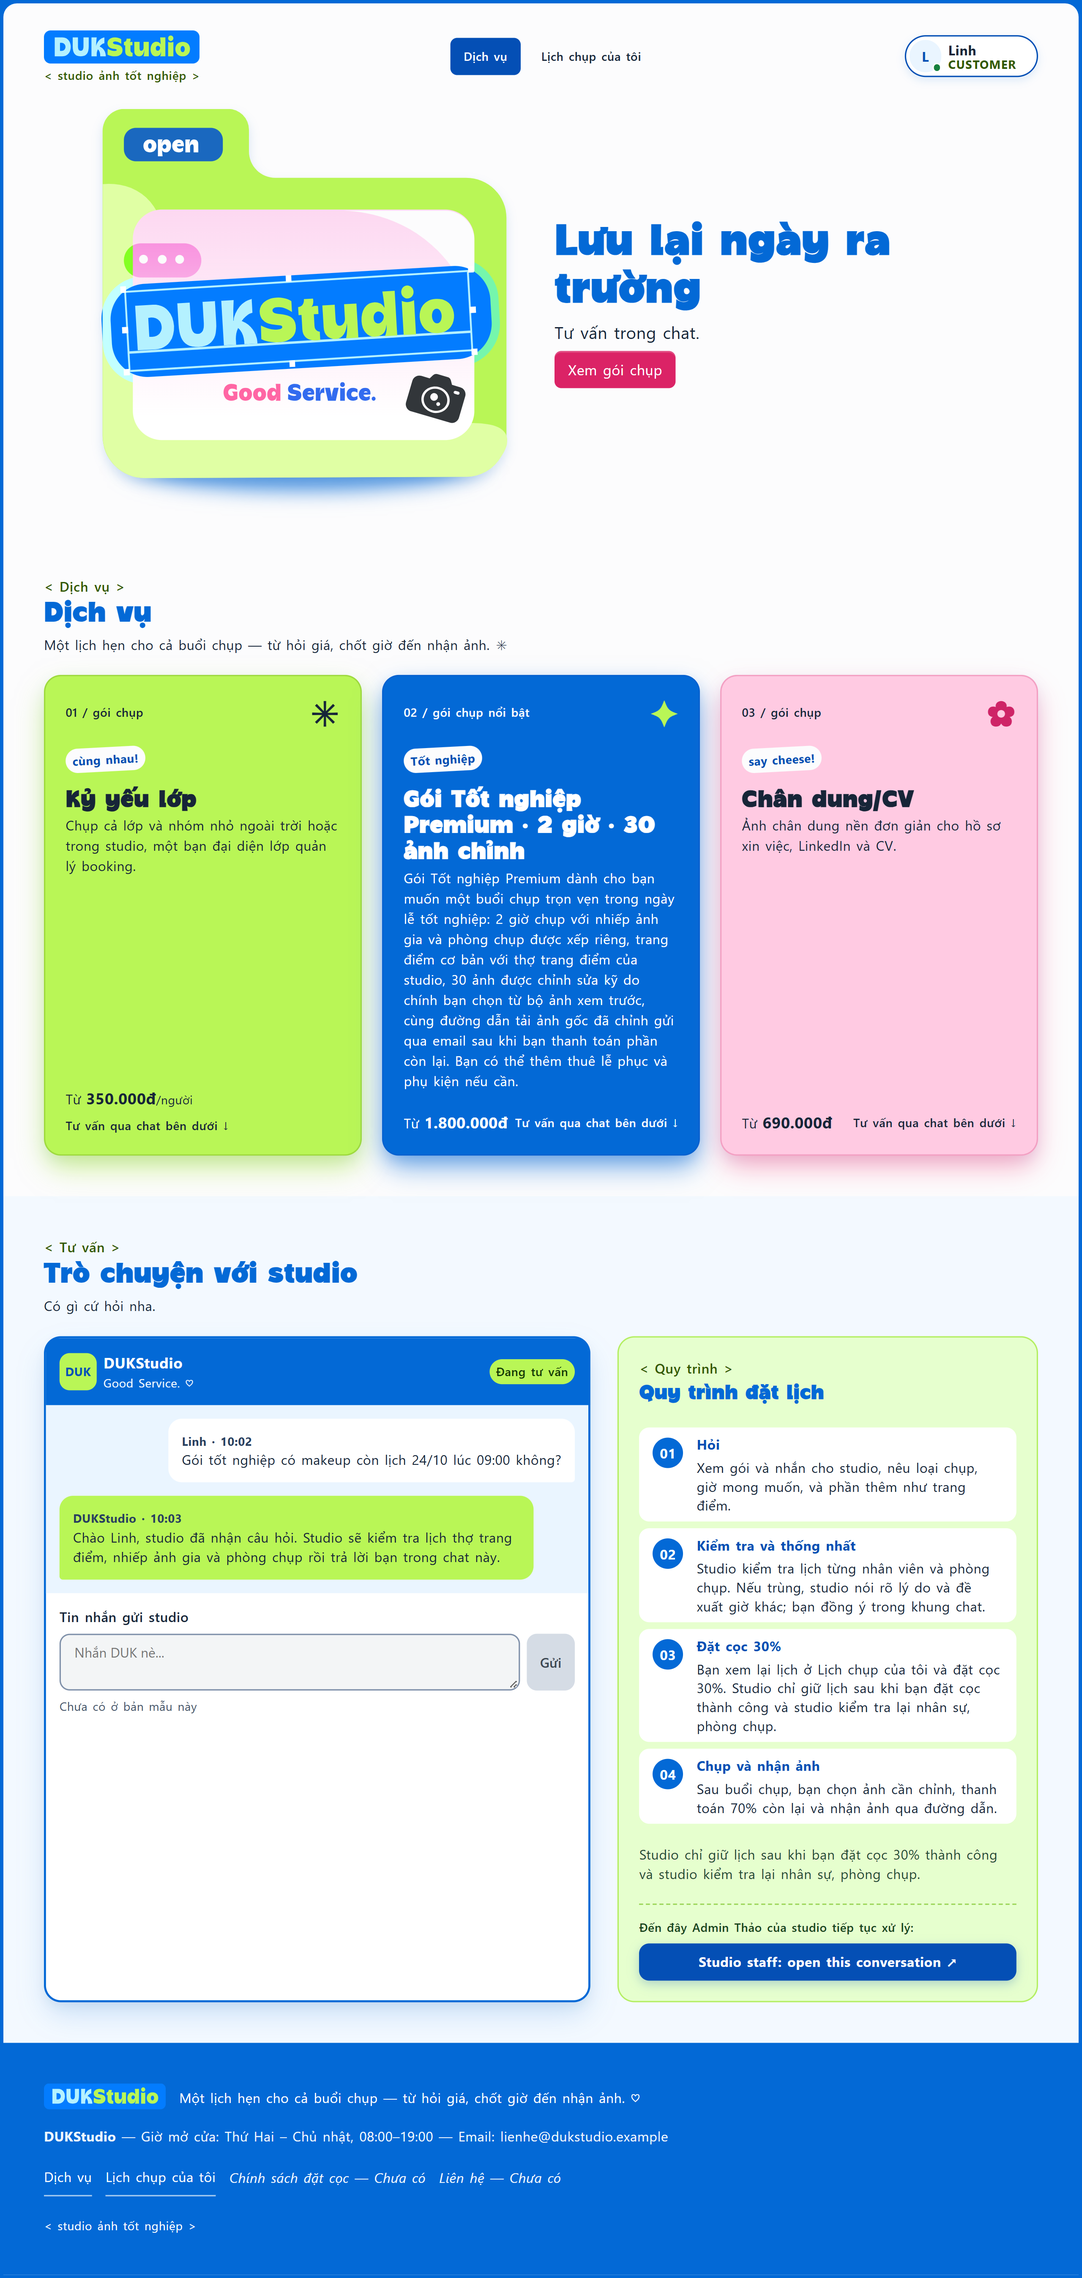
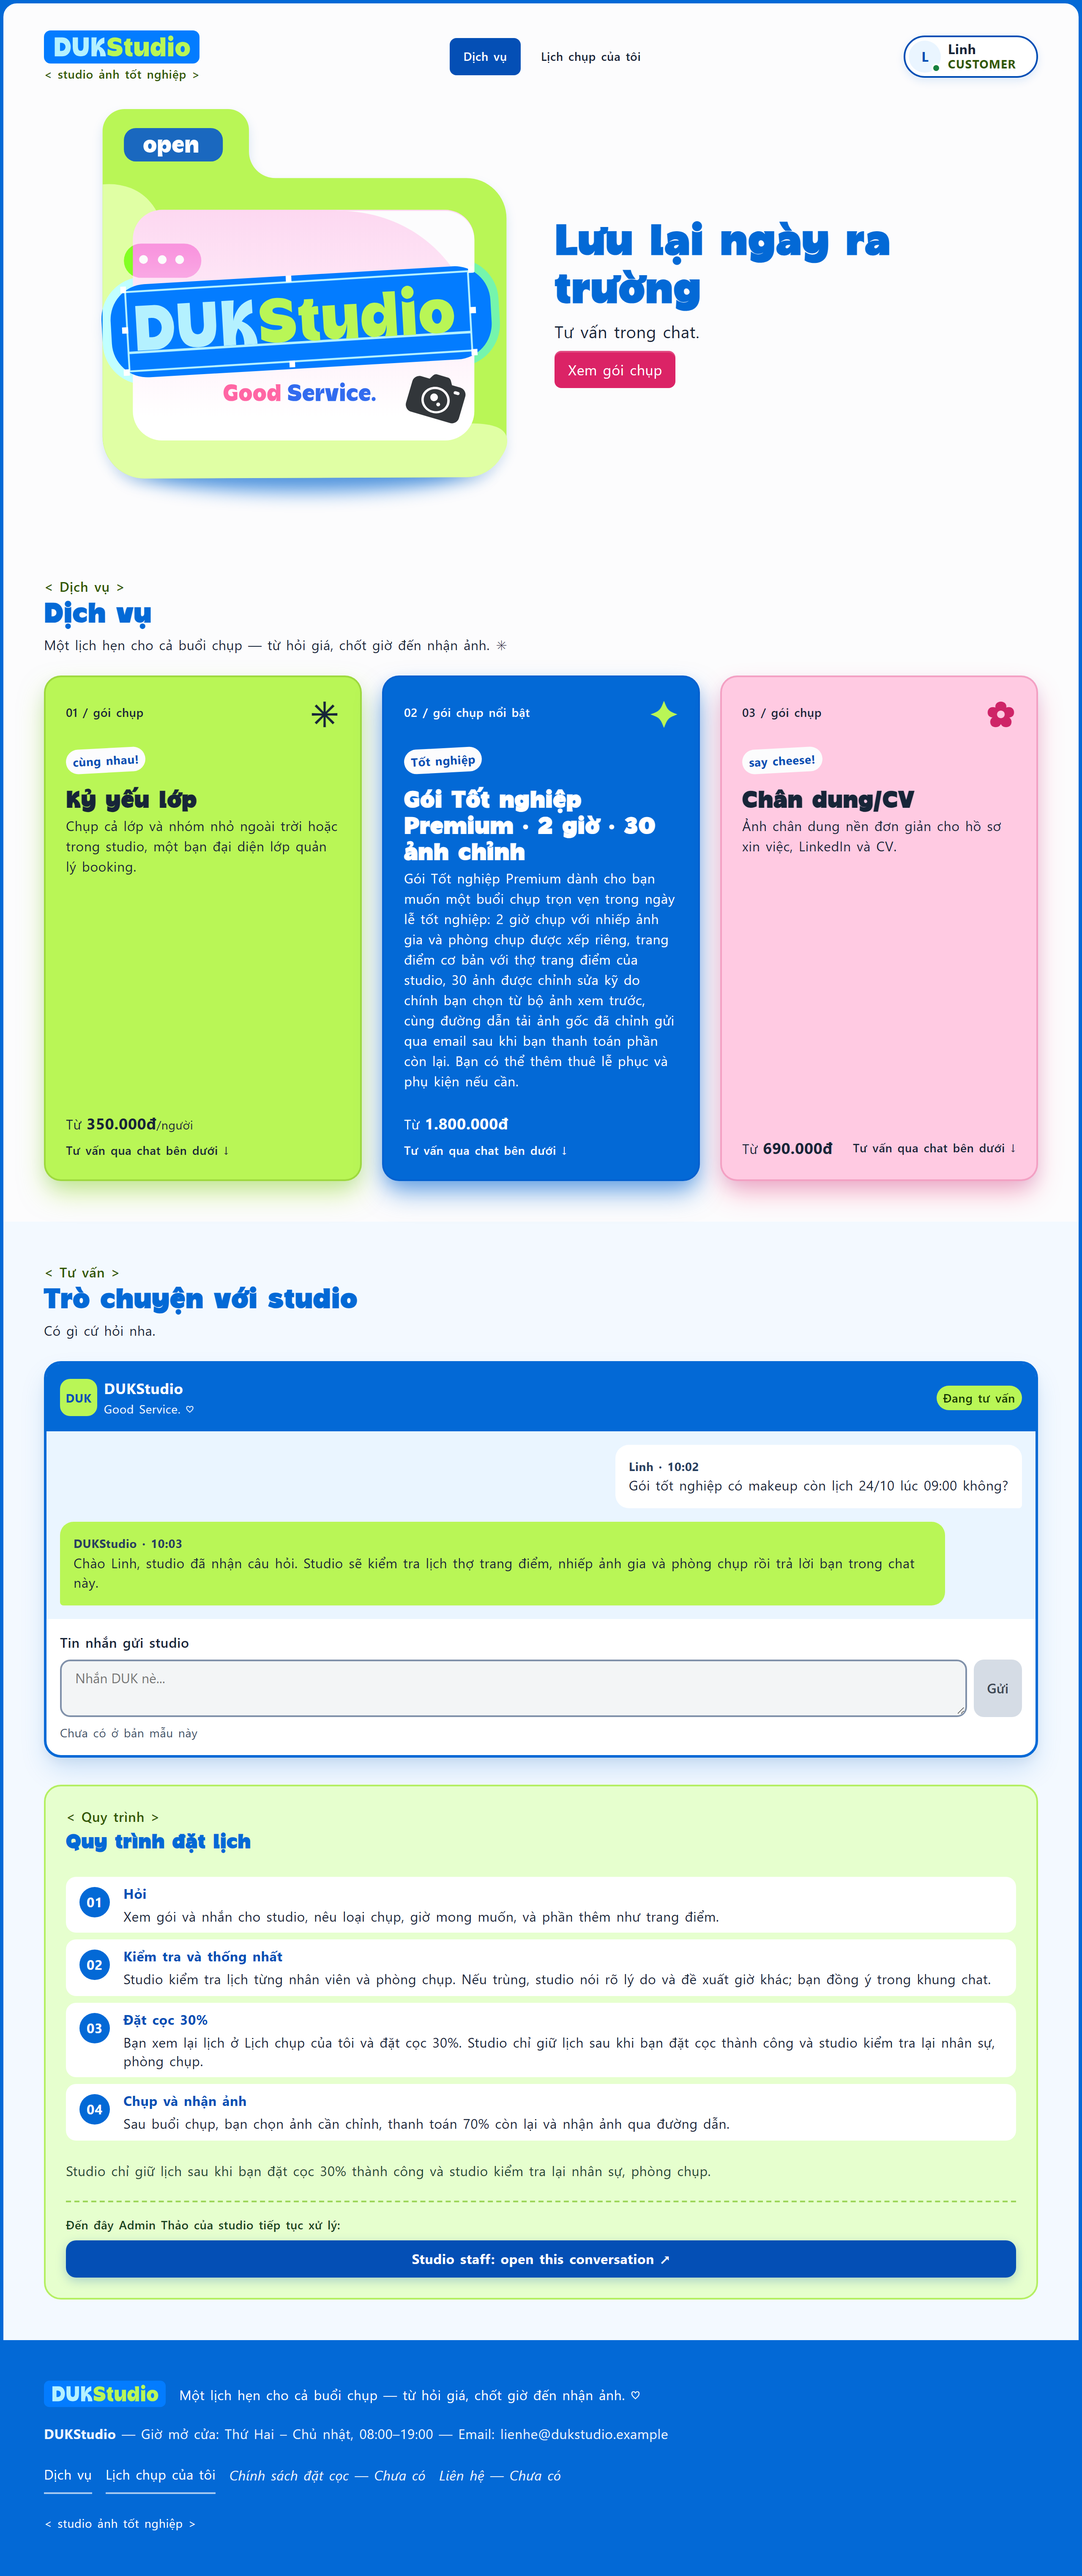
fix(chat): stack index chat and process in 1 column, swap admin message sides/colors and refresh screenshots

diff --git a/style.css b/style.css
@@ -709,10 +709,9 @@ p {
   .section { padding: var(--space-6); }
   .section h2 { font-size: 2rem; }
   .packages { grid-template-columns: repeat(2,minmax(0,1fr)); }
-  .chat-layout { grid-template-columns: minmax(0,1.3fr) minmax(0,1fr); gap: var(--space-5); }
 }
 
-/* Desktop: ba gói song song, phần chat và bước kế tiếp tách hai cột */
+/* Desktop: ba gói song song */
 @media (min-width: 1280px) {
   .site-header { padding: var(--space-5) var(--space-6) 0; }
   .hero { padding: var(--space-5) var(--space-6) var(--space-6); max-width: 74rem; margin: auto; }
@@ -856,14 +855,40 @@ p {
 /* Vùng B: chat */
 .studio-chat { margin-bottom: var(--space-4); }
 .chat-heading .studio-chat-name { margin: 0; font-size: 1.1rem; font-weight: 700; opacity: 1; overflow-wrap: anywhere; }
-.studio-chat .message { max-width: 100%; overflow-wrap: anywhere; }
-.studio-chat .message--system {
-  align-self: stretch;
-  background: var(--lime);
-  border: 2px dashed var(--lime-ink);
-  color: var(--forest-ink);
+.studio-chat .message { max-width: 92%; overflow-wrap: anywhere; }
+
+/* Phía Admin Thảo: Thảo gửi ở bên phải (nền trắng), Linh là khách ở bên trái (nền xanh lime) */
+.studio-chat .message--admin {
+  align-self: flex-end;
+  background: var(--white);
+  border-bottom-right-radius: var(--space-1);
+  border-bottom-left-radius: var(--radius-lg);
 }
-.studio-chat .message--system .message-person { color: var(--forest-ink); }
+.studio-chat .message--customer {
+  align-self: flex-start;
+  background: var(--lime);
+  border-bottom-left-radius: var(--space-1);
+  border-bottom-right-radius: var(--radius-lg);
+}
+
+/* Thông báo hệ thống căn giữa, không hộp nền xanh */
+.studio-chat .message--system {
+  align-self: center;
+  max-width: 100%;
+  background: transparent;
+  border: none;
+  padding: var(--space-2) var(--space-3);
+  text-align: center;
+  color: #1b3d63;
+}
+.studio-chat .message--system .message-person {
+  color: #1b3d63;
+  text-align: center;
+  margin-bottom: var(--space-1);
+}
+.studio-chat .message--system p {
+  text-align: center;
+}
 .studio-chat .chat-hint { color: var(--ink-muted); }
 
 /* Form Booking mới — điểm nhấn của trang, cùng tông xanh thương hiệu */

diff --git a/studio.html b/studio.html
@@ -99,15 +99,19 @@
               <span class="chat-state">Đã chốt lịch</span>
             </div>
             <ol class="chat-messages">
-              <li class="message message--guest">
+              <li class="message message--customer">
                 <p class="message-person">Linh · 10:02</p>
                 <p>Gói tốt nghiệp có makeup còn lịch 24/10 lúc 09:00 không?</p>
               </li>
-              <li class="message message--duk">
+              <li class="message message--admin">
+                <p class="message-person">DUKStudio · 10:03</p>
+                <p>Chào Linh, studio đã nhận câu hỏi. Studio sẽ kiểm tra lịch thợ trang điểm, nhiếp ảnh gia và phòng chụp rồi trả lời bạn trong chat này.</p>
+              </li>
+              <li class="message message--admin">
                 <p class="message-person">Thảo (Admin) · 10:20</p>
                 <p>Chào Linh, studio đã kiểm tra: 09:00 ngày 24/10 chị Mai (trang điểm) bận từ 08:00 đến 12:00. Studio đề xuất trang điểm 13:00–14:00 với Mai, chụp 14:00–16:00 với anh Tuấn ở Phòng B. Bạn thấy được không?</p>
               </li>
-              <li class="message message--guest">
+              <li class="message message--customer">
                 <p class="message-person">Linh · 10:24</p>
                 <p>Dạ em đồng ý 14:00 ạ.</p>
               </li>
